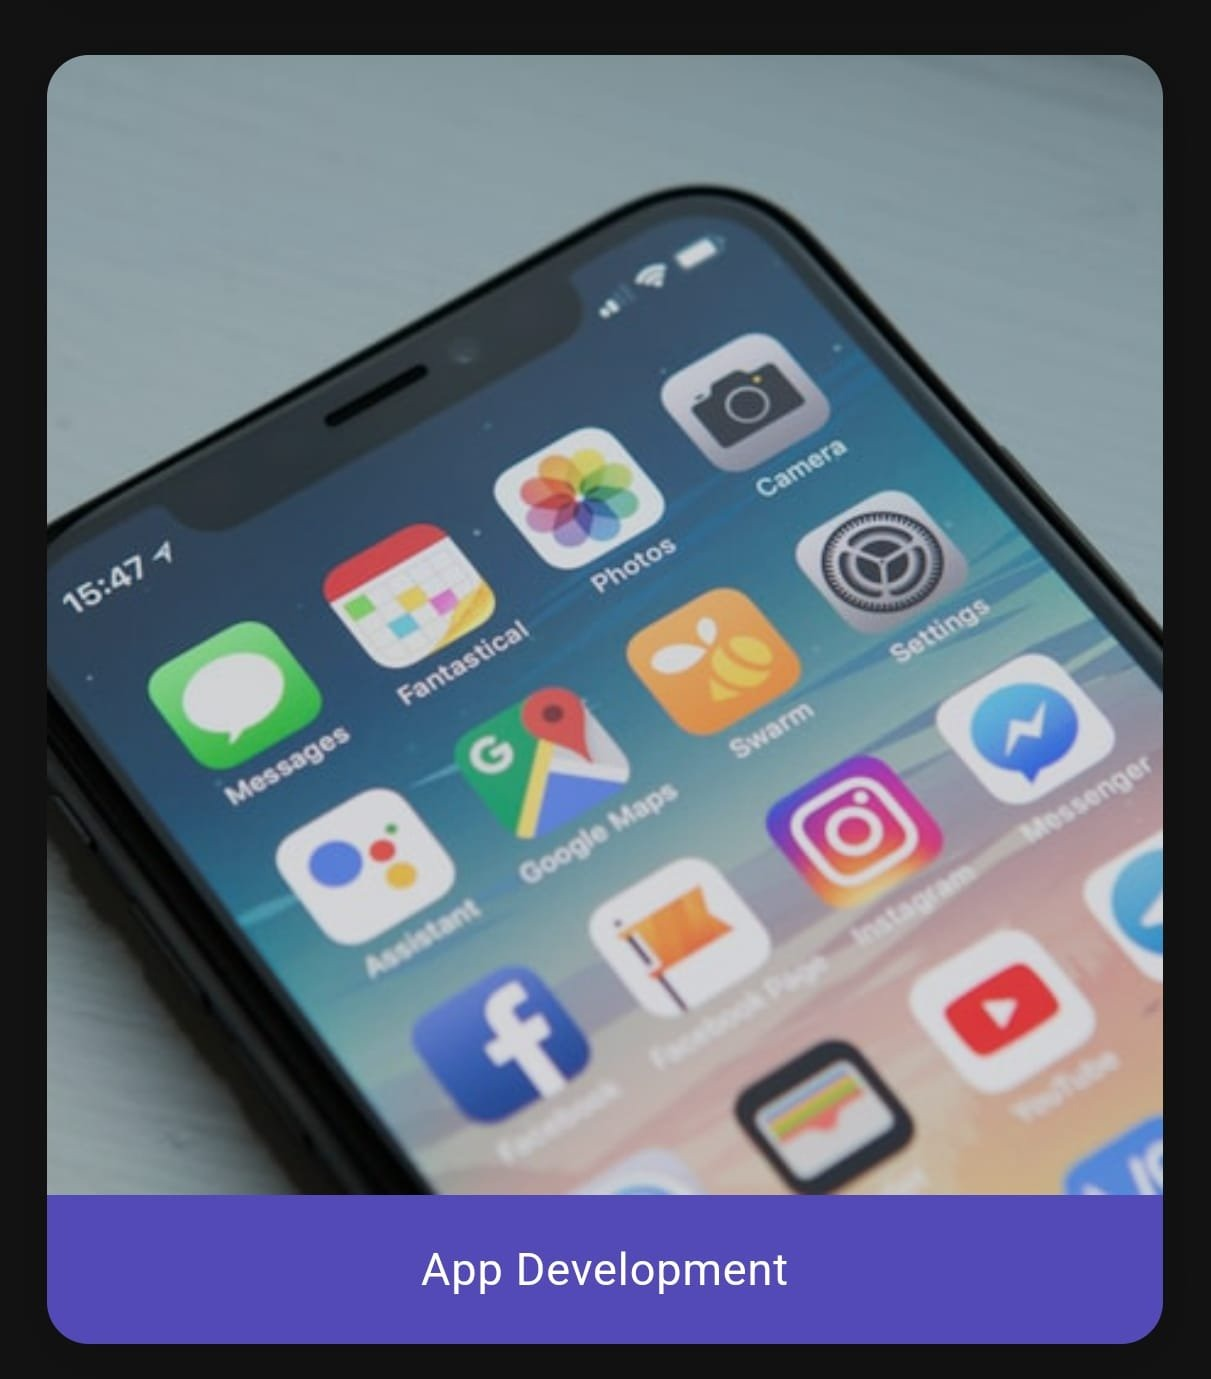
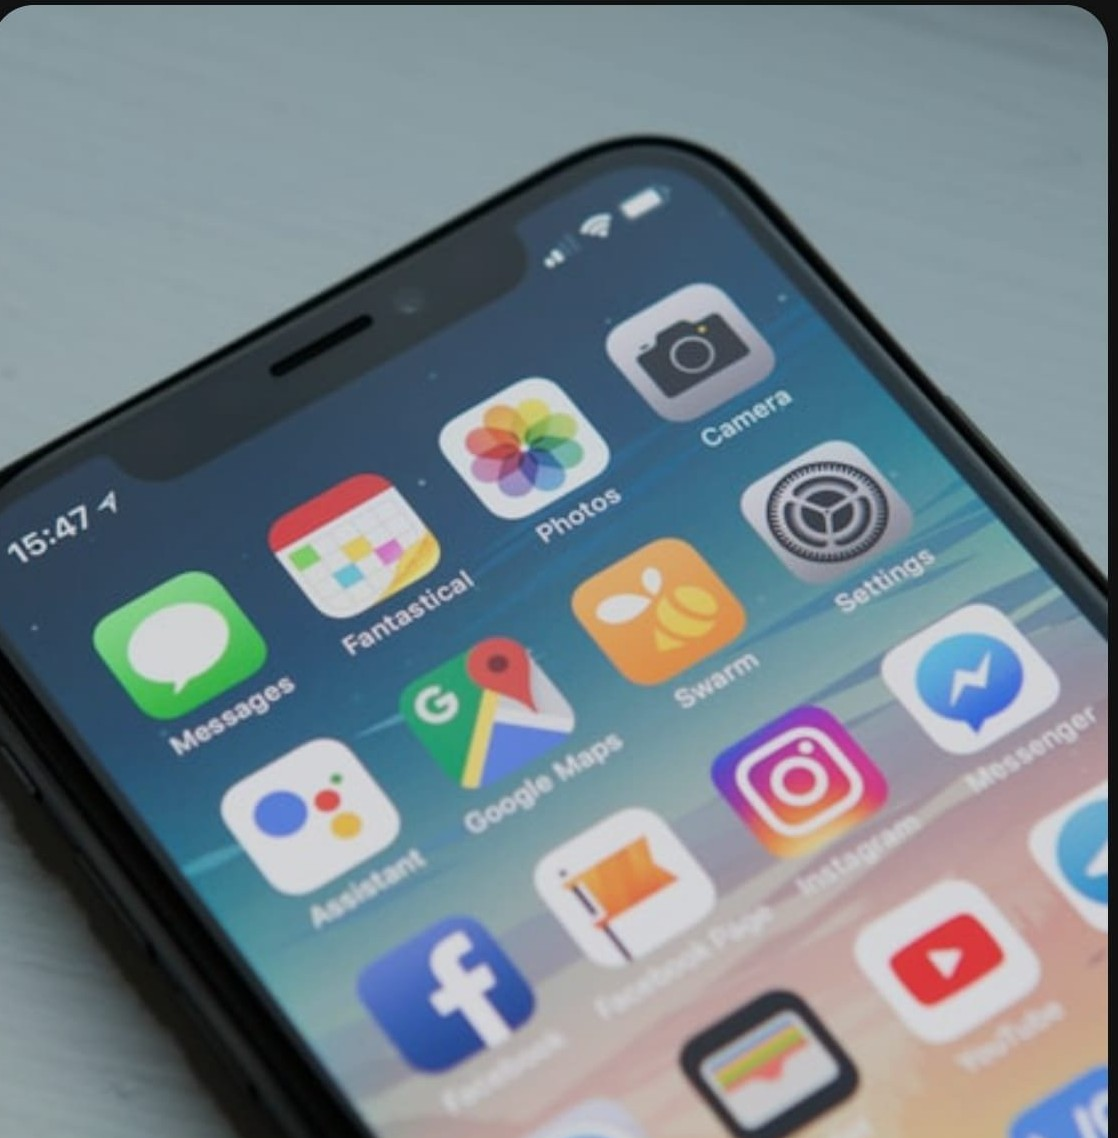
Updated services section and UI improvements

diff --git a/src/components/Services.jsx b/src/components/Services.jsx
@@ -1,13 +1,17 @@
 import React from "react";
+import appdevlopment from "../assets/appdevlopment.jpeg";
+import maintenance from "../assets/maintenance.jpeg";
+import skillbased from "../assets/skillbased.jpeg";
+import uiux from "../assets/uiux.jpeg";
+import webdevlopment from "../assets/webdevlopment.jpeg";
+
 
 const services = [
   {
     title: "Skill-Based Training",
     description:
       "We help students build practical skills, learn AI technologies, gain confidence, and work on real-world projects for successful careers.",
-    image:
-    //image 
-      "assests/images/training.jpg",
+    image: skillbased,
     icon: "🎓",
   },
 
@@ -15,9 +19,7 @@ const services = [
     title: "Web & Software Development",
     description:
       "We build scalable, user-friendly websites and software solutions for startups, schools, hospitals, hotels, and businesses.",
-    image:
-    //image 
-      "assets/images/web-development.jpg",
+    image: webdevlopment,
     icon: "💻",
   },
 
@@ -25,9 +27,7 @@ const services = [
     title: "Mobile App Development",
     description:
       "We create fast, secure, and user-friendly Android, iOS, and cross-platform mobile apps for modern businesses.",
-    image:
-    //image
-      "assets/images/mobile-app.jpg",
+    image: appdevlopment,
     icon: "📱",
   },
 
@@ -35,9 +35,7 @@ const services = [
     title: "UI/UX Design",
     description:
       "Modern and engaging UI/UX designs for websites, dashboards, mobile apps, and business platforms.",
-    image:
-    //image
-      "assets/images/uiux.jpg",
+    image: uiux,
     icon: "🎨",
   },
 
@@ -45,8 +43,7 @@ const services = [
     title: "Maintenance & Support",
     description:
       "We provide updates, bug fixing, monitoring, and technical support to keep systems secure and optimized.",
-    image:
-      "assets/images/maintenance.jpg",
+    image: maintenance,
     icon: "🛠",
   },
 ];
@@ -61,7 +58,7 @@ const Services = () => {
           Our Services
         </h2>
 
-        <p className="text-gray-300 text-lg max-w-4xl mx-auto leading-8">
+        <p className="text-gray-300 text-lg max-w-4xl mx-auto leading-8 tracking-wide">
           We provide innovative digital solutions that help students,
           startups, businesses, and enterprises grow with modern
           technology and creative development services.
@@ -98,7 +95,7 @@ const Services = () => {
               </h3>
 
               {/* Description */}
-              <p className="text-gray-700 leading-7 mb-8 flex-grow">
+              <p className="text-gray-700 leading-7 mb-8 flex-grow tracking-wide">
                 {service.description}
               </p>
 

diff --git a/src/App.jsx b/src/App.jsx
@@ -1,5 +1,4 @@
 import React from 'react'
-import educationService from './components/Services'
 import Services from './components/Services'
 
 function App() {
